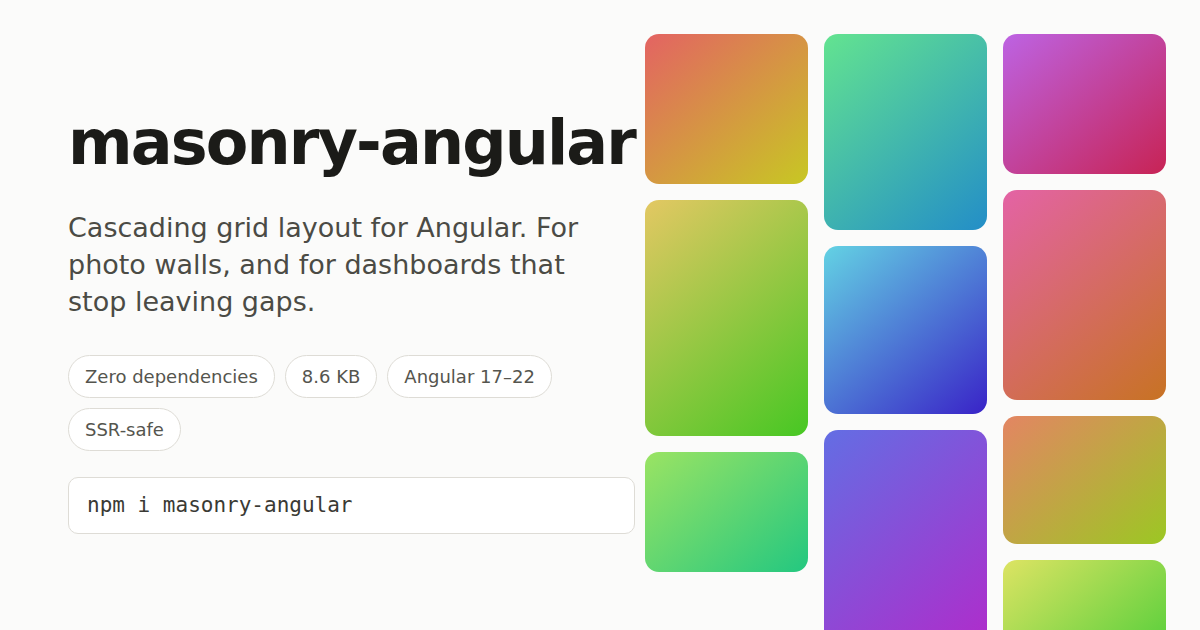
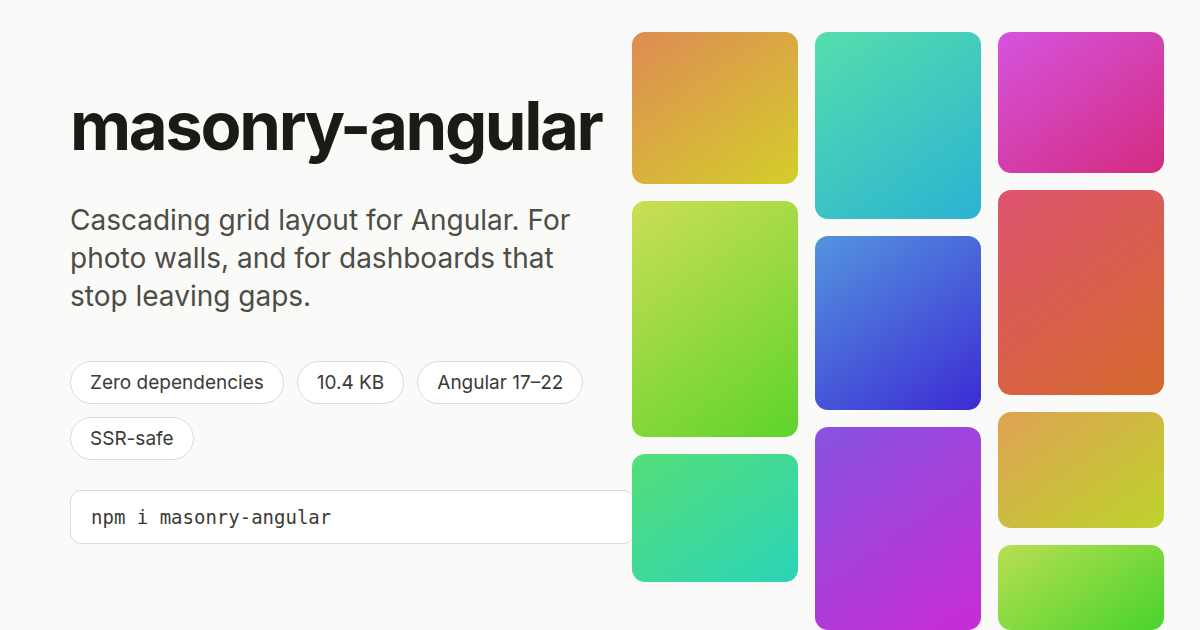
docs: link the live demo, and generate the social card
The demo URL appeared nowhere in the repository — including the npm README,
which is the page a stranger lands on. It is now in the npm README, the root
README, llms.txt and the workspace table.

The social card was drawn by hand and still said 8.6 KB after the published
figure was corrected. scripts/make-og.mjs renders it from HTML in Chromium, so
the card and the text come from the same source and cannot drift apart.

diff --git a/README.md b/README.md
@@ -5,6 +5,7 @@
 
 Angular workspace for the **masonry-angular** library and its example app.
 
+**[Live demo](https://masonry-angular.vercel.app)** ·
 **[npm](https://www.npmjs.com/package/masonry-angular)** ·
 **[GitHub](https://github.com/MeAkib/masonry-angular)** ·
 **[StackBlitz](https://stackblitz.com/github/MeAkib/masonry-angular/tree/main/examples/stackblitz)**
@@ -35,7 +36,7 @@ working on both.
 | | |
 | --- | --- |
 | [Open in StackBlitz](https://stackblitz.com/github/MeAkib/masonry-angular/tree/main/examples/stackblitz) | A minimal grid, installing `masonry-angular` from npm. Boots in the browser, nothing to set up. |
-| Demo app | The five examples in `projects/demo`, deployed to Vercel. <!-- add the URL after the first deploy --> |
+| [Demo app](https://masonry-angular.vercel.app) | The five examples in `projects/demo`, prerendered and deployed to Vercel. |
 
 ### Deploying
 

diff --git a/CONTRIBUTING.md b/CONTRIBUTING.md
@@ -171,6 +171,7 @@ Tests, unlike the demo, run against the sources directly, so `npm test` needs no
 | `npm run size:features` | Measure what each feature costs, by ablation.                                             |
 | `npm run size:app`    | Build an app with and without the grid, and subtract. The number to quote.                  |
 | `npm run verify:prerender` | Every route ships its text as HTML, and the sitemap matches.                          |
+| `npm run og`          | Redraw the social preview card. Run it when the wording or the numbers change.             |
 | `npm run ng`          | The raw Angular CLI, for anything the scripts above do not cover.                          |
 
 Three numbers worth knowing, all produced by scripts above rather than estimated: the library's own

diff --git a/projects/masonry-angular/README.md b/projects/masonry-angular/README.md
@@ -25,6 +25,9 @@ the DOM and re-lays out on its own. There is no `reloadItems()` to remember.
 - **Fast.** One shared `ResizeObserver`, one frame per burst of changes, transform-based positioning.
   The solver places 10,000 items in 0.16 ms.
 
+**[See it running](https://masonry-angular.vercel.app)** — five live examples: a photo gallery, column spans and stamps,
+a dashboard, adding and removing items, and 1,000 items at once. Each one shows its source.
+
 **[Try it in StackBlitz](https://stackblitz.com/github/MeAkib/masonry-angular/tree/main/examples/stackblitz)** —
 a running grid in your browser, no setup.
 
